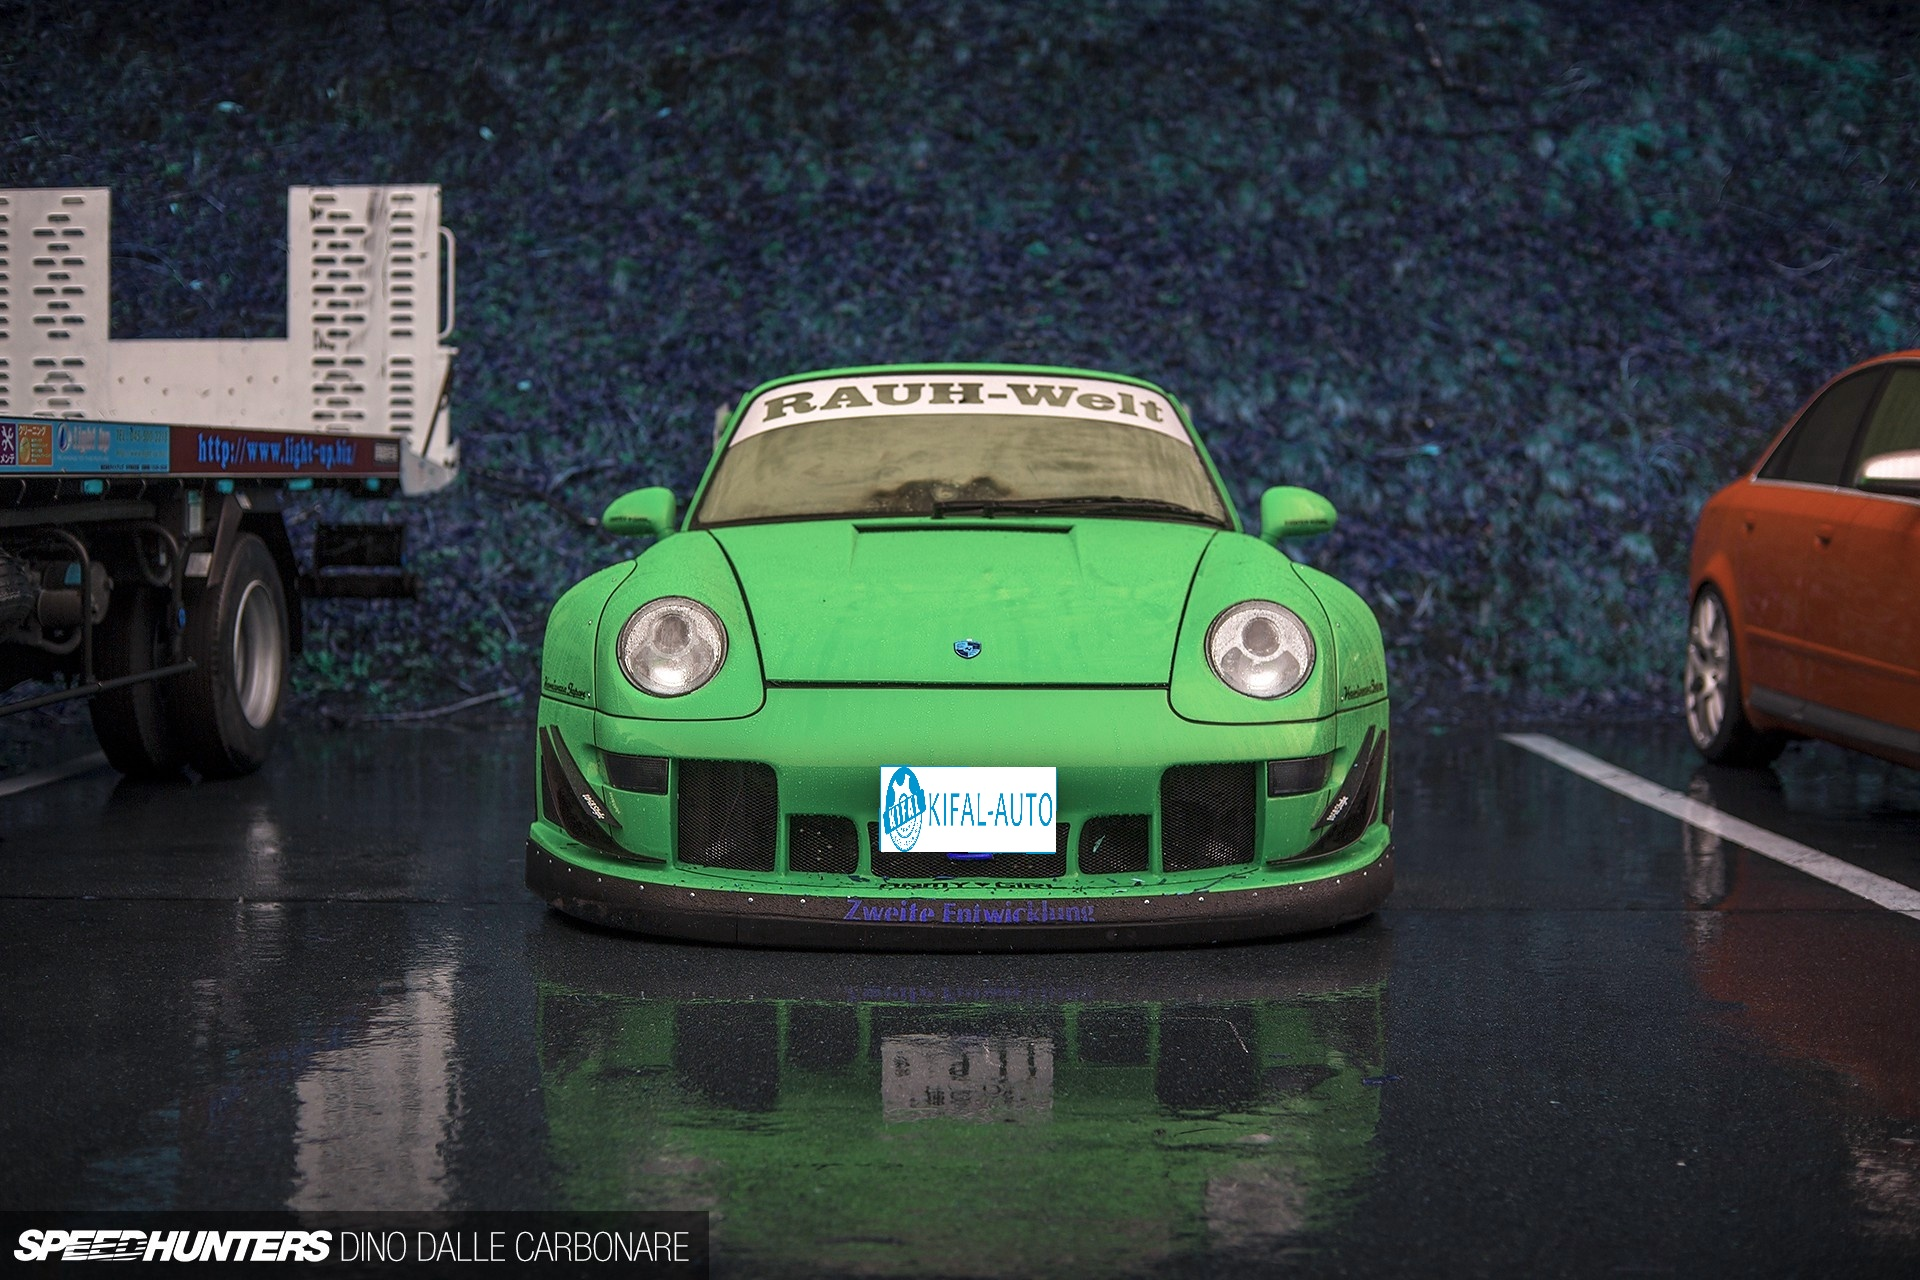
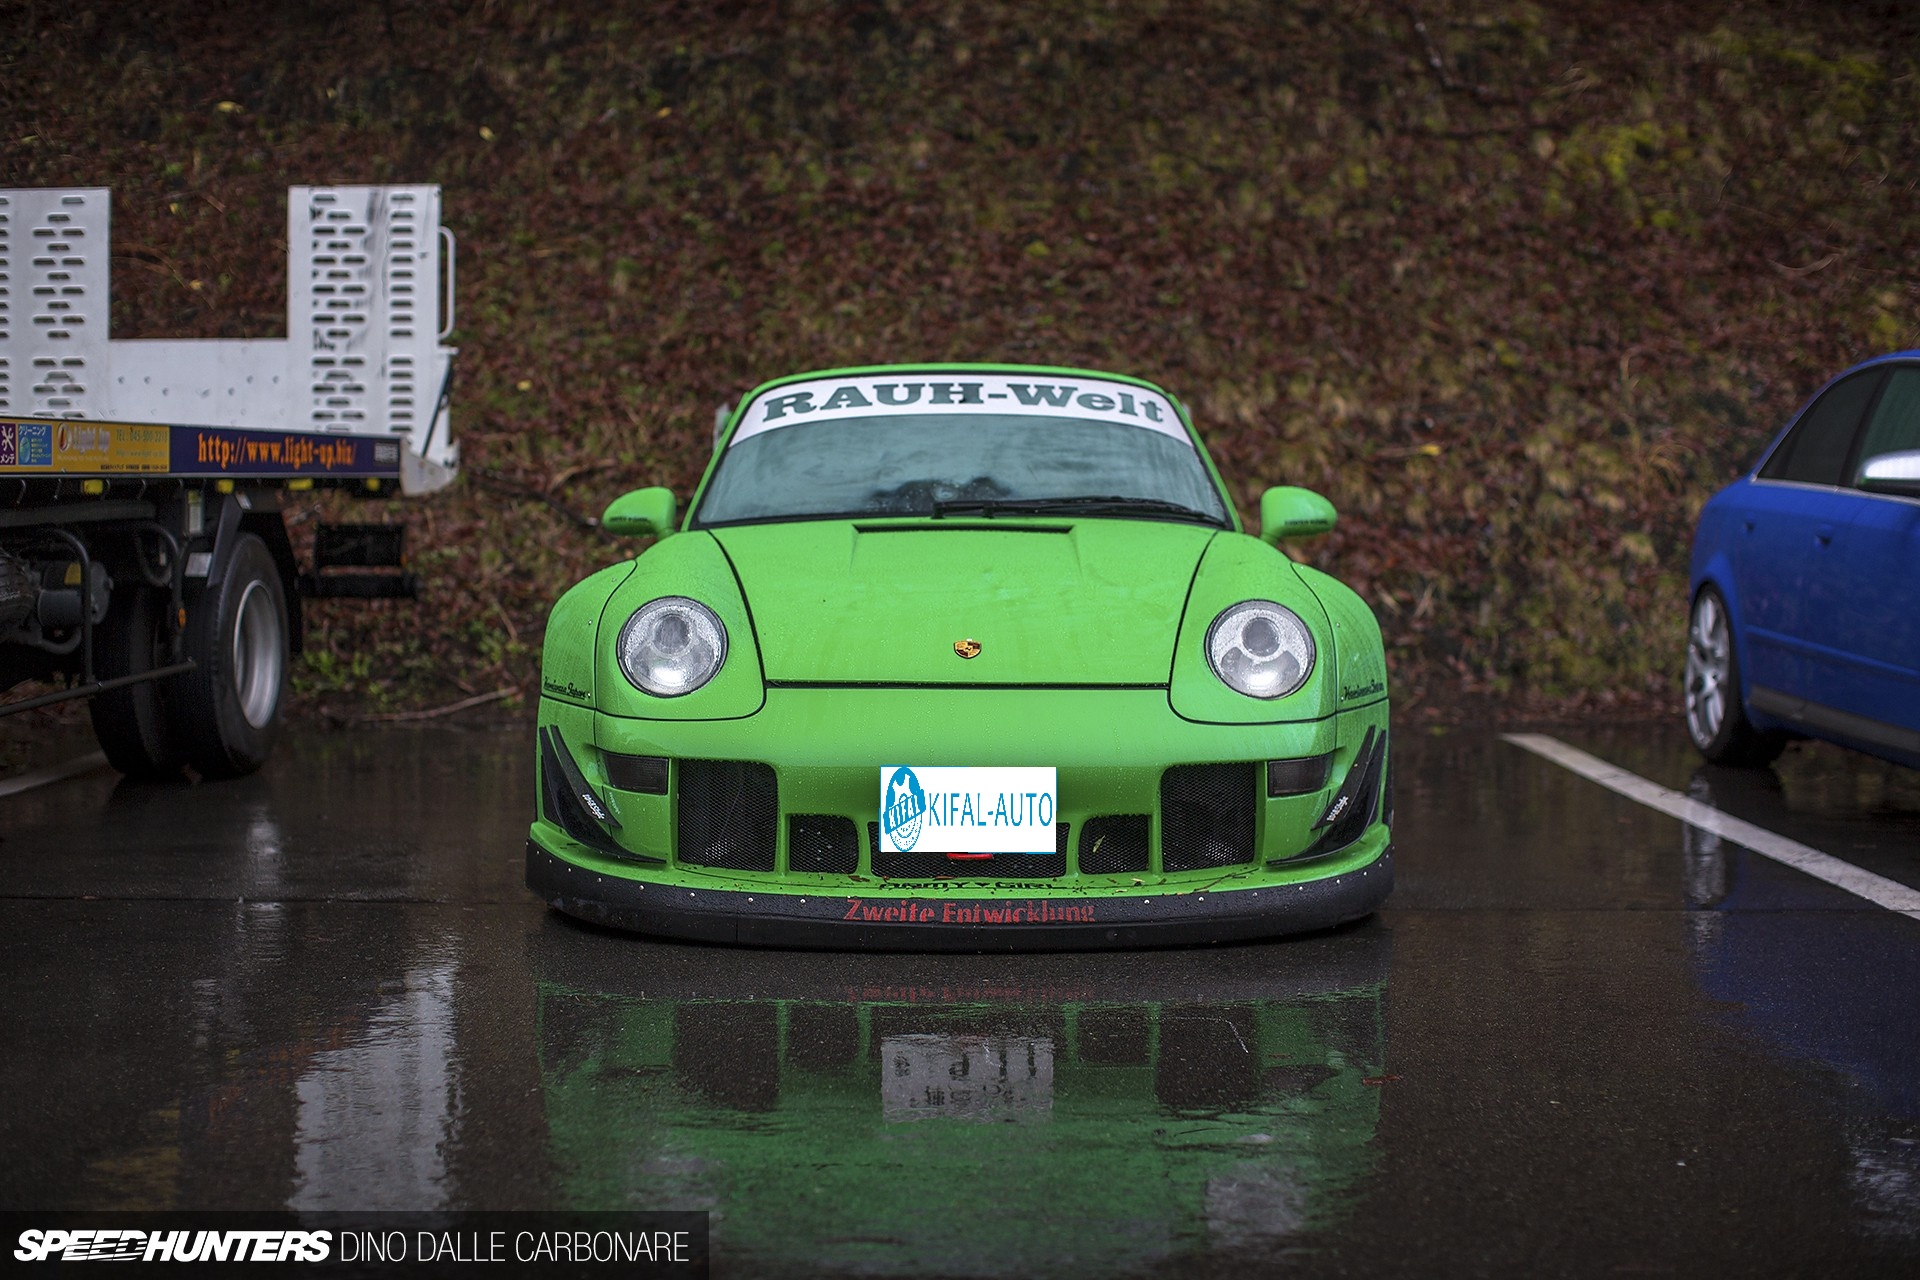
working on the front-end

diff --git a/templates/index.html b/templates/index.html
@@ -1,0 +1,43 @@
+<!DOCTYPE html>
+<html lang="en">
+<head>
+    <!-- Required meta tags -->
+    <meta charset="UTF-8">
+    <meta http-equiv="X-UA-Compatible" content="IE=edge">
+    <meta name="viewport" content="width=device-width, initial-scale=1.0">
+    
+    <!-- Bootstrap CSS -->
+    <link href="https://cdn.jsdelivr.net/npm/bootstrap@5.0.0-beta2/dist/css/bootstrap.min.css" rel="stylesheet" integrity="sha384-BmbxuPwQa2lc/FVzBcNJ7UAyJxM6wuqIj61tLrc4wSX0szH/Ev+nYRRuWlolflfl" crossorigin="anonymous">
+
+    <title>hide plates</title>
+</head>
+<body>
+    <!-- Navbar -->
+    <nav class="navbar navbar-light bg-light">
+        <div class="container-fluid">
+          <a class="navbar-brand" href="#">
+            <img src="{{url_for('static', filename='logo.png')}}" alt="logo" width="55" height="35" class="d-inline-block align-top">
+            Hide Plate
+          </a>
+        </div>
+    </nav>
+
+    <div class="card" style="padding:5px; margin:50px">
+        <div class="card-body">
+          <h5 class="card-title">Hide plate of the car</h5>
+          <h6 class="card-subtitle mb-2 text-muted">Card subtitle</h6>
+          <p class="card-text">Some quick example text to build on the card title and make up the bulk of the card's content.</p>
+          <div class="input-group mb-3" style="padding: 10px;">
+            <input type="file" class="form-control" id="inputGroupFile02">
+            <label class="input-group-text" for="inputGroupFile02">Upload</label>
+          </div>
+        </div>
+    </div>
+
+    <!-- Footer -->
+    <footer>obelouch 2021</footer>
+
+    <!-- Bootstrap Bundle with Popper -->
+    <script src="https://cdn.jsdelivr.net/npm/bootstrap@5.0.0-beta2/dist/js/bootstrap.bundle.min.js" integrity="sha384-b5kHyXgcpbZJO/tY9Ul7kGkf1S0CWuKcCD38l8YkeH8z8QjE0GmW1gYU5S9FOnJ0" crossorigin="anonymous"></script>
+</body>
+</html>

diff --git a/api.py b/api.py
@@ -1,31 +1,24 @@
-from flask import Flask, request, Response
+from flask import Flask, request, Response, jsonify, render_template
 from hide_plate import hide_image_plate
 import numpy as np
-import jsonpickle
+from PIL import Image
 import cv2
 
 app = Flask(__name__)
 
 
-@app.route("/", methods=["GET"])
-def get_home():
-    return "<h1>Welcome<h1><br/><h2>This API is used to hide plates</h2>"
+@app.route("/")
+def index():
+    return render_template('index.html', title="home", username=None)
 
 @app.route("/picture", methods=["POST"])
 def post_image():
-    # convert string of image data to uint8
-    nparr = np.fromstring(request.data, np.uint8)
-    # decode image
-    image = cv2.imdecode(nparr, cv2.IMREAD_COLOR)
+    file = request.files['image']
+    image = Image.open(file.stream)
     # process the image
     hide_image_plate(image)
     # build a response dict to send back to client
-    response = {
-        'message': 'image received. size={}x{}'.format(image.shape[1], image.shape[0])
-    }
-    # encode response using jsonpickle
-    response_pickled = jsonpickle.encode(response)
-    return Response(response=response_pickled, status=200, mimetype="application/json")
+    return jsonify({'msg': 'success', 'size': [image.width, image.height]})
 
 
 # Run flask app

diff --git a/hide_plate.py b/hide_plate.py
@@ -38,8 +38,10 @@ def hide_image_plate(image_PIL):
     # get the four points coord
     rect = cv2.minAreaRect(plate_contour)
     box = numpy.int0(cv2.boxPoints(rect))
+    # Copy Image
+    final_image = image_CV.copy()
     # Fill the plate with WHITE color
-    final_image = cv2.drawContours(image_CV.copy(), [box], -1, (255, 255, 255), -1)
+    final_image = cv2.drawContours(final_image, [box], -1, (255, 255, 255), -1)
     # Put the BORDER
     final_image = cv2.drawContours(final_image, [box], 0, (207, 149, 1), 2)
     # Put the plate
@@ -48,8 +50,6 @@ def hide_image_plate(image_PIL):
     plate_CV_X = cv2.resize(plate_CV, (w,h))
     final_image[y:y+h, x:x+w] = plate_CV_X
 
-    # Convert color BGR -> RGB
-    #final_image = cv2.cvtColor(final_image, cv2.COLOR_BGR2RGB)
 
     ## Save the images
     cv2.imwrite('./images/image_hidden.jpg', final_image)

diff --git a/client.py b/client.py
@@ -4,16 +4,12 @@ import json
 import cv2
 
 addr = 'http://localhost:5000'
-test_url = addr + '/picture'
+url = addr + '/picture'
 
 # prepare headers for http request
-content_type = 'image/jpg'
+content_type = 'multipart/form-data'
 headers = {'content-type': content_type}
 
-img = cv2.imread('./images/car2.jpg')
-# encode image as jpeg
-_, img_encoded = cv2.imencode('.jpg', img)
+image = {'image': open('./images/souad.jpg', 'rb')}
 # send http request with image and receive response
-response = requests.post(test_url, data=img_encoded.tostring(), headers=headers)
-# decode response
-print(json.loads(response.text))
+response = requests.post(url, files=image, headers=headers)
